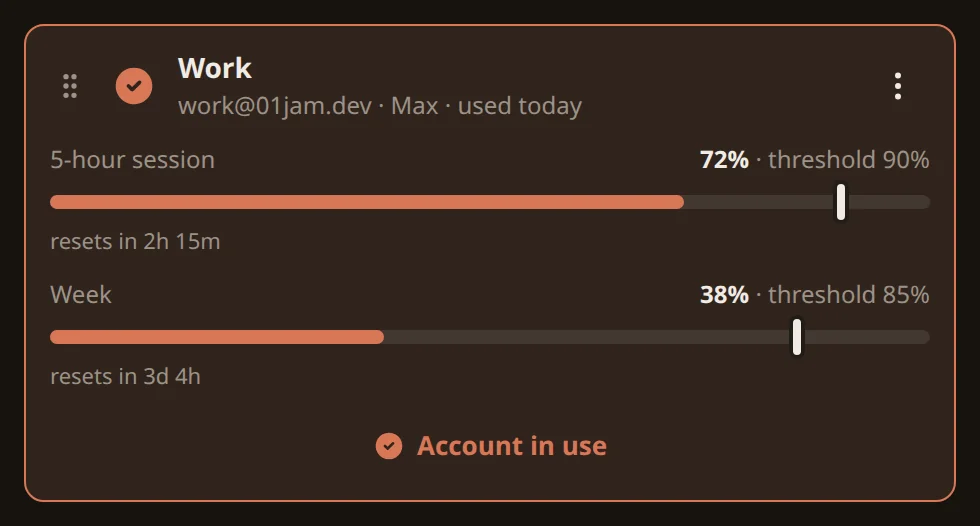
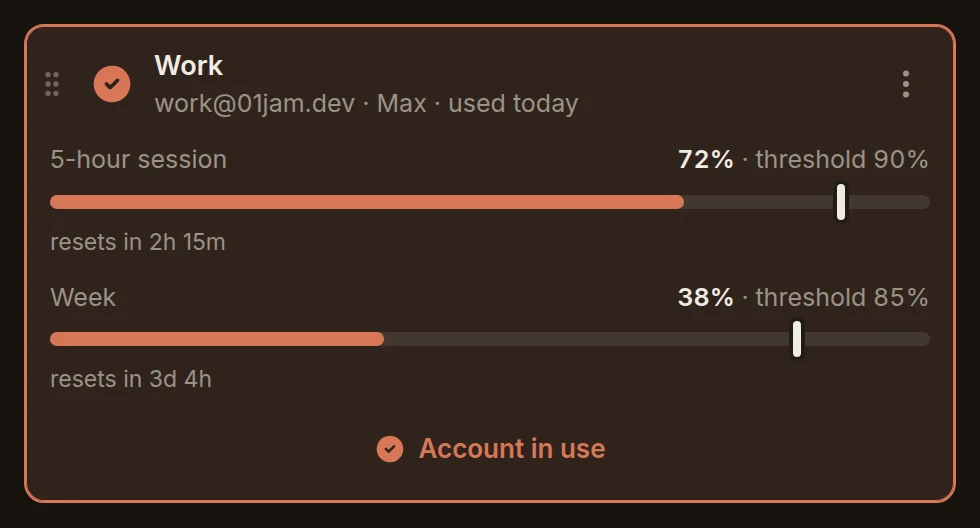
Bring both Switcher pages up to the shared UI
New screenshots from both apps' shots harness, now that they share one type scale and set of controls, and a line on the Check for updates button in Settings.

diff --git a/claude-account-switcher/index.html b/claude-account-switcher/index.html
@@ -834,7 +834,7 @@
 				<figure class="shot">
 					<picture>
 						<source srcset="img/card-dark.webp" media="(prefers-color-scheme: dark)" />
-						<img src="img/card-light.webp" width="490" height="263" alt="One account card: the 5-hour session at 72% with its threshold marker at 90%, and the week at 38% with a threshold at 85%." />
+						<img src="img/card-light.webp" width="490" height="264" alt="One account card: the 5-hour session at 72% with its threshold marker at 90%, and the week at 38% with a threshold at 85%." />
 					</picture>
 					<figcaption>The filled part is what the window has spent. The upright marker is the threshold, and it drags.</figcaption>
 				</figure>
@@ -1052,7 +1052,7 @@
 				<figure class="shot">
 					<picture>
 						<source srcset="img/card-error-dark.webp" media="(prefers-color-scheme: dark)" />
-						<img src="img/card-error-light.webp" width="490" height="263" alt="An account card with a red warning mark next to its menu: the stored token could not be renewed." />
+						<img src="img/card-error-light.webp" width="490" height="264" alt="An account card with a red warning mark next to its menu: the stored token could not be renewed." />
 					</picture>
 					<figcaption>The red mark: this token will not renew. Press it to sign the account in again.</figcaption>
 				</figure>
@@ -1146,8 +1146,9 @@
 			<div class="body">
 				<p>Only when you press the button. Every six hours, and once at launch, the app asks GitHub
 					for the newest release — one unauthenticated request, nothing sent but a user agent. A
-					newer tag puts a red dot on the gear in the title bar and the offer at the top of
-					Settings, with what is out, what is running, and a link to the notes.</p>
+					newer tag puts a dot on the gear in the title bar and the offer at the top of
+					Settings, with what is out, what is running, and a link to the notes. Not willing to
+					wait? <strong>Check for updates</strong>, at the foot of Settings, asks right away.</p>
 				<p>Pressing it downloads the package into your Downloads folder, checks its size against what
 					the release says, and hands it to the <strong>system</strong> package manager under
 					<code>pkexec</code> — polkit puts up its own password dialog and takes the password

diff --git a/tailscale-account-switcher/index.html b/tailscale-account-switcher/index.html
@@ -979,7 +979,8 @@
 			<div class="body">
 				<p>Only when you press the button. Every six hours, and once at launch, the app asks GitHub for the
 					newest release — one unauthenticated request, nothing sent but a user agent. A newer tag puts a
-					dot on the gear in the title bar and the offer at the top of Settings.</p>
+					dot on the gear in the title bar and the offer at the top of Settings. Not willing to wait?
+					<strong>Check for updates</strong>, at the foot of Settings, asks right away.</p>
 				<p>Pressing it downloads the package into your Downloads folder, checks its size against what the
 					release says, and hands it to the <strong>system</strong> package manager under
 					<code>pkexec</code> — <code>apt-get</code> for a <code>.deb</code>, <code>dnf</code>,
